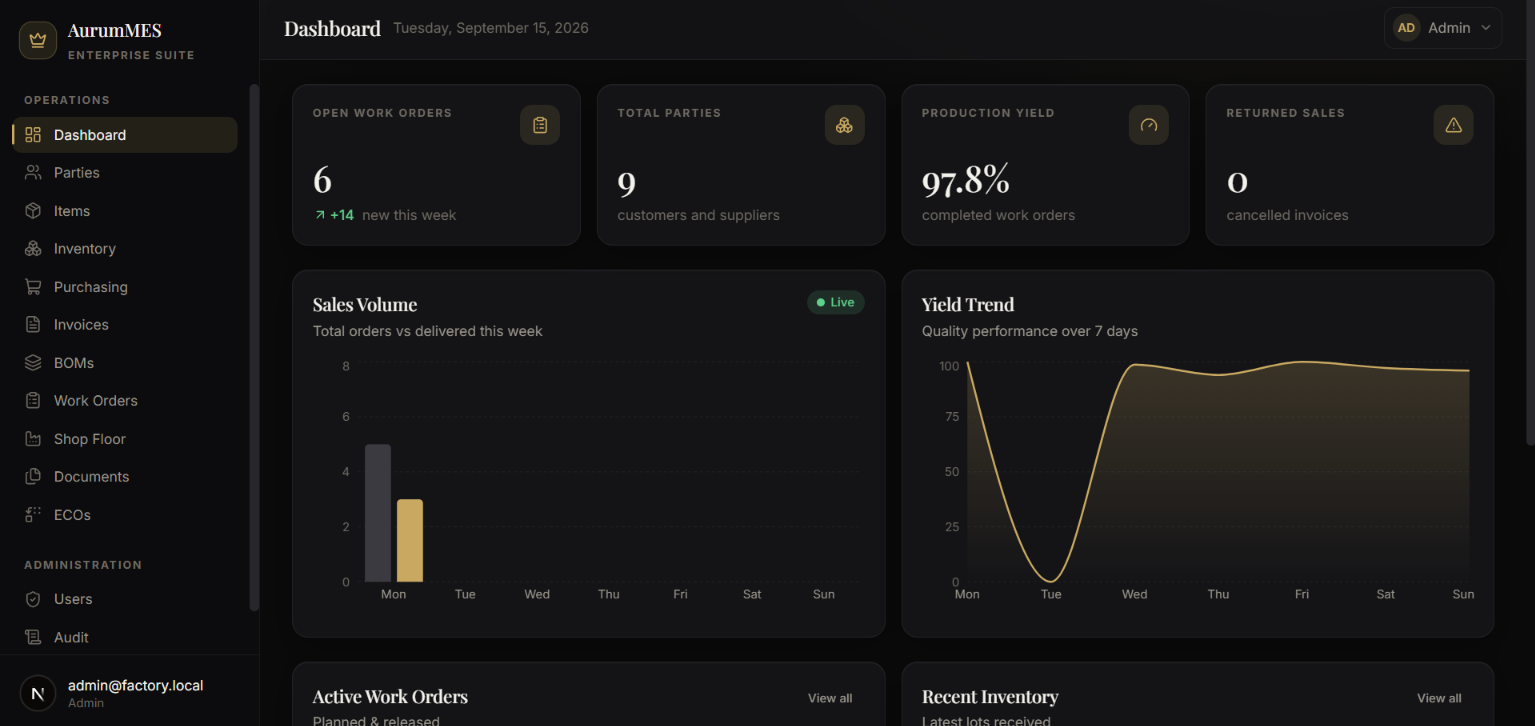
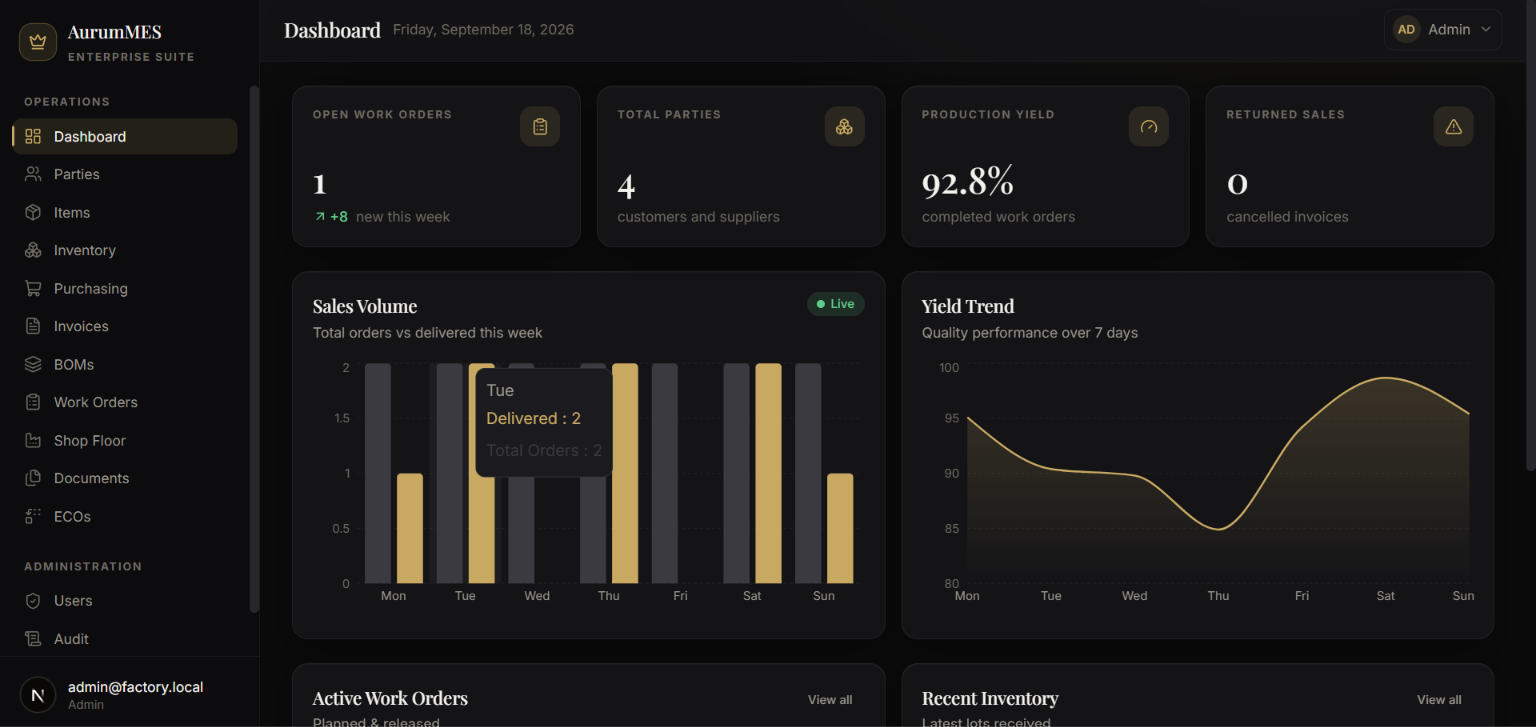
seeding more data

diff --git a/db/seed.ts b/db/seed.ts
@@ -1,20 +1,24 @@
 import bcrypt from "bcryptjs"
-import { eq } from "drizzle-orm"
+import { eq, sql } from "drizzle-orm"
 import { db } from "@/db"
 import { users, roles } from "@/db/schema/auth"
 import { parties } from "@/db/schema/parties"
-import { invoiceCounters } from "@/db/schema/invoices"
+import { invoiceCounters, invoices, invoiceLines } from "@/db/schema/invoices"
 import { items, lots } from "@/db/schema/inventory"
 import { purchaseOrders, purchaseOrderLines } from "@/db/schema/purchases"
+import { boms, bomLines, workCenters, workOrders, workOrderMaterials } from "@/db/schema/production"
 
 // single factory → one constant facility id everywhere
 const FACILITY_ID = "00000000-0000-0000-0000-000000000001"
 
 async function main() {
+  // Clear all data (except auth) to avoid unique constraint violations
+  await db.execute(sql`TRUNCATE TABLE invoices, invoice_lines, work_order_materials, work_orders, bom_lines, boms, purchase_order_lines, purchase_orders, lots, items, invoice_counters, parties, work_centers CASCADE;`)
+  
   const [adminRole] = await db.select().from(roles).where(eq(roles.name, "admin"))
   if (!adminRole) throw new Error("Admin role not found. Run migration first.")
 
-  // 1) Admin user (idempotent thanks to unique email)
+  // 1) Admin user
   const passwordHash = await bcrypt.hash("ChangeMe123!", 10)
   await db.insert(users).values({
     name: "Admin", email: "admin@factory.local", passwordHash, roleId: adminRole.id,
@@ -24,40 +28,158 @@ async function main() {
   const [supplier] = await db.insert(parties).values({
     facilityId: FACILITY_ID, type: "supplier", name: "Resine Import EURL",
   }).returning()
-  await db.insert(parties).values({
+  const [supplier2] = await db.insert(parties).values({
+    facilityId: FACILITY_ID, type: "supplier", name: "Global Plastics Ltd",
+  }).returning()
+  const [customer] = await db.insert(parties).values({
     facilityId: FACILITY_ID, type: "customer", name: "Acme Foods SARL", phone: "+213-555-000-000",
-  })
+  }).returning()
+  const [customer2] = await db.insert(parties).values({
+    facilityId: FACILITY_ID, type: "customer", name: "HyperMarket Group", phone: "+213-555-111-222",
+  }).returning()
 
-  // 3) Invoice counter for the current fiscal year (REQUIRED before any invoice)
+  // 3) Invoice counter
   const fiscalYear = new Date().getFullYear()
   await db.insert(invoiceCounters).values({
-    facilityId: FACILITY_ID, fiscalYear, lastNumber: 0,
+    facilityId: FACILITY_ID, fiscalYear, lastNumber: 2,
   }).onConflictDoNothing()
 
-  // 4) Items (catalog, no quantity)
-  const [rawItem] = await db.insert(items).values({
+  // 4) Items
+  // Raw materials
+  const [sugar] = await db.insert(items).values({
     facilityId: FACILITY_ID, kind: "raw_material", sku: "RM-SUGAR", name: "Refined Sugar", unit: "kg", shelfLifeDays: 365,
-  }).returning()
-  const [finishedItem] = await db.insert(items).values({
+  }).onConflictDoUpdate({ target: [items.facilityId, items.sku], set: { name: "Refined Sugar" } }).returning()
+  const [pectin] = await db.insert(items).values({
+    facilityId: FACILITY_ID, kind: "raw_material", sku: "RM-PECTIN", name: "Apple Pectin", unit: "kg", shelfLifeDays: 730,
+  }).onConflictDoUpdate({ target: [items.facilityId, items.sku], set: { name: "Apple Pectin" } }).returning()
+  const [strawberries] = await db.insert(items).values({
+    facilityId: FACILITY_ID, kind: "raw_material", sku: "RM-STRAWBERRY", name: "Fresh Strawberries", unit: "kg", shelfLifeDays: 14,
+  }).onConflictDoUpdate({ target: [items.facilityId, items.sku], set: { name: "Fresh Strawberries" } }).returning()
+  const [glassJar] = await db.insert(items).values({
+    facilityId: FACILITY_ID, kind: "raw_material", sku: "PK-JAR-500", name: "Glass Jar 500ml", unit: "unit", shelfLifeDays: 3650,
+  }).onConflictDoUpdate({ target: [items.facilityId, items.sku], set: { name: "Glass Jar 500ml" } }).returning()
+  
+  // Finished goods
+  const [jam] = await db.insert(items).values({
     facilityId: FACILITY_ID, kind: "finished_good", sku: "FG-JAM-500", name: "Strawberry Jam 500g", unit: "unit", shelfLifeDays: 540,
-  }).returning()
+  }).onConflictDoUpdate({ target: [items.facilityId, items.sku], set: { name: "Strawberry Jam 500g" } }).returning()
+  const [marmalade] = await db.insert(items).values({
+    facilityId: FACILITY_ID, kind: "finished_good", sku: "FG-MARM-500", name: "Orange Marmalade 500g", unit: "unit", shelfLifeDays: 540,
+  }).onConflictDoUpdate({ target: [items.facilityId, items.sku], set: { name: "Orange Marmalade 500g" } }).returning()
 
-  // 5) Lots (quantity + expiry live here)
-  await db.insert(lots).values([
-    { itemId: rawItem.id, lotNumber: "SUGAR-2026-001", quantityOnHand: "1000.000", producedAt: "2026-01-10", expiresAt: "2027-01-10" },
-    { itemId: finishedItem.id, lotNumber: "JAM-2026-001", quantityOnHand: "240.000", producedAt: "2026-08-01", expiresAt: "2028-02-01" },
-  ])
+  // 5) Lots
+  const [sugarLot] = await db.insert(lots).values([
+    { itemId: sugar.id, lotNumber: `SUGAR-${new Date().getFullYear()}-001`, quantityOnHand: "1500.000", producedAt: new Date().toISOString().split("T")[0], expiresAt: "2027-01-10" },
+  ]).returning()
+  const [pectinLot] = await db.insert(lots).values([
+    { itemId: pectin.id, lotNumber: `PECTIN-${new Date().getFullYear()}-001`, quantityOnHand: "200.000", producedAt: new Date().toISOString().split("T")[0], expiresAt: "2028-01-10" },
+  ]).returning()
+  const [strawberryLot] = await db.insert(lots).values([
+    { itemId: strawberries.id, lotNumber: `STRAWBERRY-${new Date().getFullYear()}-001`, quantityOnHand: "500.000", producedAt: new Date().toISOString().split("T")[0], expiresAt: "2026-10-10" },
+  ]).returning()
+  const [jarLot] = await db.insert(lots).values([
+    { itemId: glassJar.id, lotNumber: `JAR-${new Date().getFullYear()}-001`, quantityOnHand: "10000.000", producedAt: new Date().toISOString().split("T")[0], expiresAt: "2036-01-10" },
+  ]).returning()
+  const [jamLot] = await db.insert(lots).values([
+    { itemId: jam.id, lotNumber: `JAM-${new Date().getFullYear()}-001`, quantityOnHand: "850.000", producedAt: new Date().toISOString().split("T")[0], expiresAt: "2028-02-01" },
+  ]).returning()
 
-  // 6) A sample purchase order + line
-  const [po] = await db.insert(purchaseOrders).values({
-    facilityId: FACILITY_ID, supplierId: supplier.id, status: "ordered", totalAmount: "150000.00",
+  // 6) Purchase Orders
+  const [po1] = await db.insert(purchaseOrders).values({
+    facilityId: FACILITY_ID, supplierId: supplier.id, status: "received", totalAmount: "150000.00",
   }).returning()
   await db.insert(purchaseOrderLines).values({
-    poId: po.id, itemId: rawItem.id, description: "Refined Sugar",
+    poId: po1.id, itemId: sugar.id, description: "Refined Sugar",
     quantity: "1000.000", unitPrice: "150.00", lineTotal: "150000.00",
   })
 
-  console.log("✅ Seed complete: users, parties, counter, items, lots, PO")
+  const [po2] = await db.insert(purchaseOrders).values({
+    facilityId: FACILITY_ID, supplierId: supplier2.id, status: "ordered", totalAmount: "45000.00",
+  }).returning()
+  await db.insert(purchaseOrderLines).values({
+    poId: po2.id, itemId: pectin.id, description: "Apple Pectin",
+    quantity: "150.000", unitPrice: "300.00", lineTotal: "45000.00",
+  })
+
+  // 7) BOM
+  const [bom] = await db.insert(boms).values({
+    facilityId: FACILITY_ID, productItemId: jam.id, version: 1, status: "active", notes: "Standard Strawberry Jam Recipe",
+  }).returning()
+  await db.insert(bomLines).values([
+    { bomId: bom.id, componentItemId: strawberries.id, quantityPer: "0.55" }, // 550g berries per jar
+    { bomId: bom.id, componentItemId: sugar.id, quantityPer: "0.45" }, // 450g sugar per jar
+    { bomId: bom.id, componentItemId: pectin.id, quantityPer: "0.01" }, // 10g pectin
+    { bomId: bom.id, componentItemId: glassJar.id, quantityPer: "1.0" },
+  ])
+
+  // 8) Work Centers
+  const [cookingCenter] = await db.insert(workCenters).values({
+    facilityId: FACILITY_ID, name: "Cooking Station A", capacityPerDay: "2000.000",
+  }).returning()
+  const [packagingCenter] = await db.insert(workCenters).values({
+    facilityId: FACILITY_ID, name: "Packaging Line 1", capacityPerDay: "5000.000",
+  }).returning()
+
+  // 9) Work Orders (Fill past 7 days for Yield Trend)
+  const today = new Date()
+  for (let i = 6; i >= 0; i--) {
+    const d = new Date(today)
+    d.setDate(d.getDate() - i)
+    const dateStr = d.toISOString().split("T")[0]
+    
+    const qtyPlanned = Math.floor(Math.random() * 500) + 500
+    // random yield between 85% and 100%
+    const qtyProduced = Math.floor(qtyPlanned * (0.85 + Math.random() * 0.15))
+    
+    const [wo] = await db.insert(workOrders).values({
+      facilityId: FACILITY_ID, productItemId: jam.id, bomId: bom.id, workCenterId: cookingCenter.id,
+      quantityPlanned: String(qtyPlanned), quantityProduced: String(qtyProduced), status: "completed",
+      scheduledFor: dateStr, completedAt: d,
+    }).returning()
+    await db.insert(workOrderMaterials).values([
+      { workOrderId: wo.id, componentItemId: strawberries.id, quantityRequired: String(qtyPlanned * 0.55) },
+      { workOrderId: wo.id, componentItemId: sugar.id, quantityRequired: String(qtyPlanned * 0.45) },
+      { workOrderId: wo.id, componentItemId: pectin.id, quantityRequired: String(qtyPlanned * 0.01) },
+      { workOrderId: wo.id, componentItemId: glassJar.id, quantityRequired: String(qtyPlanned) },
+    ])
+  }
+
+  // Active work order
+  const [woActive] = await db.insert(workOrders).values({
+    facilityId: FACILITY_ID, productItemId: jam.id, bomId: bom.id, workCenterId: cookingCenter.id,
+    quantityPlanned: "500.000", quantityProduced: "0.000", status: "released", scheduledFor: new Date().toISOString().split("T")[0],
+  }).returning()
+  await db.insert(workOrderMaterials).values([
+    { workOrderId: woActive.id, componentItemId: strawberries.id, quantityRequired: "275.000" },
+    { workOrderId: woActive.id, componentItemId: sugar.id, quantityRequired: "225.000" },
+    { workOrderId: woActive.id, componentItemId: pectin.id, quantityRequired: "5.000" },
+    { workOrderId: woActive.id, componentItemId: glassJar.id, quantityRequired: "500.000" },
+  ])
+
+  // 10) Invoices (Fill past 7 days for Sales Volume)
+  let invSeq = 1
+  for (let i = 6; i >= 0; i--) {
+    const d = new Date(today)
+    d.setDate(d.getDate() - i)
+    // 2 invoices per day to make the graph look good
+    for (let j = 0; j < 2; j++) {
+      const isDelivered = Math.random() > 0.4 // 60% chance to be delivered
+      const amount = String(Math.floor(Math.random() * 50000) + 10000)
+      const [inv] = await db.insert(invoices).values({
+        facilityId: FACILITY_ID, partyId: customer.id, fiscalYear, sequence: invSeq, invoiceNo: `INV-${fiscalYear}-${String(invSeq).padStart(4, '0')}`,
+        totalAmount: amount, 
+        status: isDelivered ? "delivered" : "issued",
+        issuedAt: d, deliveredAt: isDelivered ? d : null,
+      }).returning()
+      await db.insert(invoiceLines).values({
+        invoiceId: inv.id, itemId: jam.id, lotId: jamLot.id, description: "Strawberry Jam 500g",
+        quantity: String(Math.floor(Math.random() * 150) + 50), unitPrice: "300.00", lineTotal: amount,
+      })
+      invSeq++
+    }
+  }
+
+  console.log("✅ Seed complete: users, parties, counters, items, lots, POs, BOMs, WorkCenters, WorkOrders, Invoices")
   process.exit(0)
 }
 
